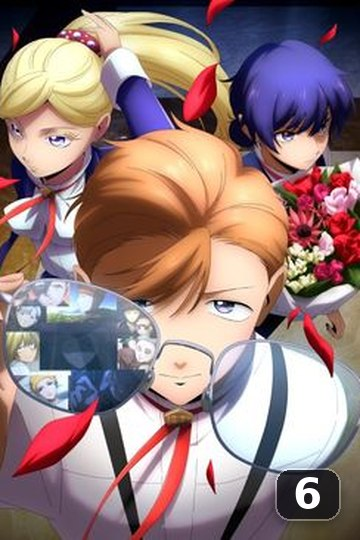
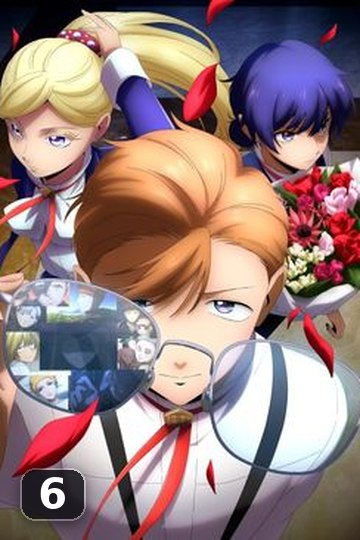
animeav1: recientes y agregados solo con lo que publica el sitio (sin mezclar catalogo); numero del capitulo a la izquierda

Changed region(s): [[0.0306, 0.8593, 0.2444, 0.9778], [0.7333, 0.8593, 0.9472, 0.9778]]

diff --git a/extensiones/AnimeAV1/src/main/kotlin/com/foxcloud/animeav1/AnimeAV1Provider.kt b/extensiones/AnimeAV1/src/main/kotlin/com/foxcloud/animeav1/AnimeAV1Provider.kt
@@ -73,26 +73,15 @@ class AnimeAV1Provider : MainAPI() {
 
     override suspend fun getMainPage(page: Int, request: MainPageRequest): HomePageResponse {
         return when (request.data) {
-            "recientes" -> {
-                // La portada solo pinta 20 episodios y no hay listado paginado de
-                // episodios, asi que el resto de la fila sigue el orden del
-                // catalogo (que es el mismo "ultima actualizacion").
-                val desde = if (page == 1) 2 else (page - 1) * BLOQUES + 2
-                val (extra, hayMas) = catalogoBloque("", desde)
-                val base = if (page == 1) bloqueRecientes() else emptyList()
-                newHomePageResponse(request.name, (base + extra).distinctBy { it.url }, hayMas)
-            }
+            // Estas dos filas son bloques de la portada y el sitio publica
+            // exactamente 20 tarjetas en cada uno, sin listado paginado. Aqui
+            // no se rellena con nada: o es un episodio recien actualizado, o no
+            // entra en la fila.
+            "recientes" -> newHomePageResponse(request.name, bloqueRecientes(), false)
+            "agregados" -> newHomePageResponse(request.name, bloqueAgregados(), false)
 
-            "agregados" -> {
-                // Su bloque de portada tambien se corta en 20, asi que la fila
-                // sigue con el catalogo, pero desde mas abajo para no repetir
-                // los mismos titulos que "Capitulos recientes".
-                val desde = if (page == 1) 2 + BLOQUES else (page - 1) * BLOQUES + 2 + BLOQUES
-                val (extra, hayMas) = catalogoBloque("", desde)
-                val base = if (page == 1) bloqueAgregados() else emptyList()
-                newHomePageResponse(request.name, (base + extra).distinctBy { it.url }, hayMas)
-            }
-
+            // Estas si son listas del catalogo con su mismo filtro y su mismo
+            // orden, asi que la pagina 2, 3... sigue siendo la misma lista.
             else -> {
                 val desde = (page - 1) * BLOQUES + 1
                 val (items, hayMas) = catalogoBloque(request.data, desde)

diff --git a/.github/scripts/caps.py b/.github/scripts/caps.py
@@ -102,7 +102,7 @@ def componer(portada: bytes, cap: str) -> Image.Image:
     ancho_p = ancho_t + pad_x * 2
     alto_p = alto_t + pad_y * 2
     margen = 20  # despegado del borde
-    x0 = ANCHO - margen - ancho_p
+    x0 = margen
     y0 = ALTO - margen - alto_p
     radio = 15
 
